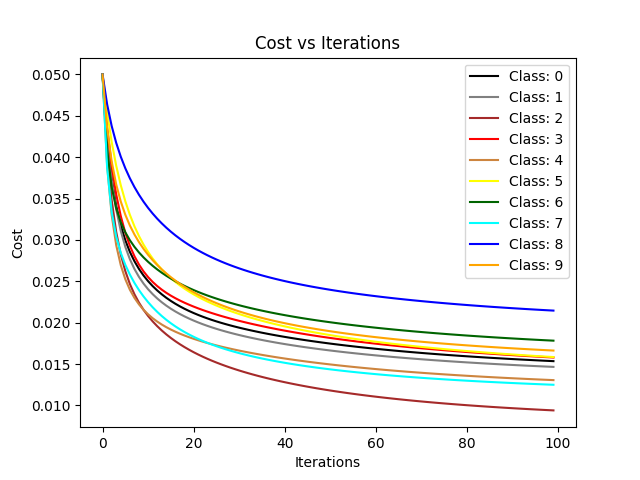
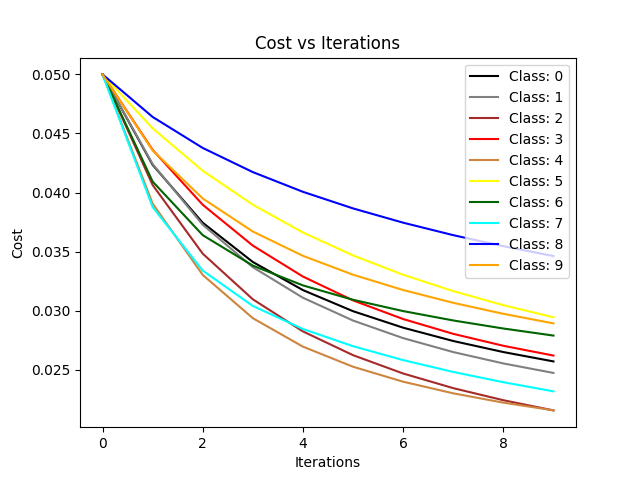
model parameters class and separate plotting module created

diff --git a/ml/linear_regression.py b/ml/linear_regression.py
@@ -1,54 +1,35 @@
-import pickle
-from abc import ABC
-
 import numpy as np
-import matplotlib.pyplot as plt
+from pathlib import Path
+
 from typing import Tuple
 
-from contants import colors
+from ml.models import ModelParameters
 
 
-class Regressor(ABC):
-    w_init = None
-    b_init = None
-    w_min = None
-    b_min = None
-
+class GradientDescent(object):
     def __init__(self):
         pass
 
-    def save_weights(self, weights: np.ndarray, bias: np.array, cost: np.ndarray):
+    def compute_cost(self):
         pass
 
-    def load_weights(self) -> Tuple[np.ndarray, np.array]:
+    def compute_gradient(self):
+        pass
+
+    def compute_gradient_descent(self):
         pass
 
 
 class LinearRegression(object):
     def __init__(self, nodes=1):
         self.nodes = nodes
-        self.cost_list = None
-        self.w_init = None
-        self.b_init = None
-        self.w_min = None
-        self.b_min = None
-
-    @staticmethod
-    def save_weights(weights: np.ndarray, bias: np.array, cost: np.ndarray) -> None:
-        with open('weights/lr_weights.pkl', 'wb') as f:
-            pickle.dump(weights, f)
-            pickle.dump(bias, f)
-            pickle.dump(cost, f)
-            print('Saved model weights')
-
-    @staticmethod
-    def load_weights() -> Tuple[np.ndarray, np.array, np.ndarray]:
-        with open('weights/lr_weights.pkl', 'rb') as f:
-            weights = pickle.load(f)
-            bias = pickle.load(f)
-            cost = pickle.load(f)
-            print('Loaded model weights')
-            return weights, bias, cost
+        self.parameters = None
+        self.weights_filepath = Path(__file__).parent / Path('weights/lr_weights.hp5')
+        # self.cost_list = None
+        # self.w_init = None
+        # self.b_init = None
+        # self.w_min = None
+        # self.b_min = None
 
     def compute_gradient(self, xTrain: np.array, yTrain: np.array, w: np.array,
                          b: np.array) -> Tuple[np.array, np.array]:
@@ -104,17 +85,20 @@ class LinearRegression(object):
 
         return w, b, self.cost_list
 
-    def train(self, xTrain: np.array, yTrain: np.array, w_init: np.array, b_init: np.array,
+    def train(self, xTrain: np.array, yTrain: np.array, parameters: ModelParameters,
               learning_rate: float, iterations: int) -> Tuple[np.array, np.array, np.array]:
-        self.w_init = w_init
-        self.b_init = b_init
+        # self.w_init = w_init
+        # self.b_init = b_init
+        self.parameters = parameters
+        w_init, b_init = self.parameters.load_initial_weights()
 
-        self.w_min, self.b_min, self.cost_list = self.gradient_descent(xTrain, yTrain, w_init,
-                                                                       b_init, learning_rate, iterations)
-        print('Optimum weights and bias are: {}, {}'.format(self.w_min, self.b_min))
+        w_min, b_min, cost_list = self.gradient_descent(xTrain, yTrain, w_init, b_init, learning_rate, iterations)
+        print('Optimum weights and bias are: {}, {}'.format(w_min, b_min))
 
-        return self.w_min, self.b_min, self.cost_list
+        self.parameters.save_weights(filepath=self.weights_filepath, weights=w_min, bias=b_min, cost_history=cost_list)
+        return w_min, b_min, cost_list
 
-    def predict(self, xTest: np.array, yTest: np.array, wMin: np.array, bMin: float) -> Tuple[np.array, np.array]:
+    def predict(self, xTest: np.ndarray, yTest: np.ndarray) -> Tuple[np.array, np.array]:
         print('Predicting...')
-        return self.compute_cost(data=xTest, target=yTest, w=wMin, b=bMin, get_y_pred=True)
+        w_min, b_min, cost_history = self.parameters.load_optimum_weights(self.weights_filepath)
+        return self.compute_cost(data=xTest, target=yTest, w=w_min, b=b_min, get_y_pred=True)

diff --git a/ml/models.py b/ml/models.py
@@ -1,17 +1,78 @@
-# from abc import ABC, abstractmethod
-#
-# import numpy as np
-# import pandas as pd
-#
-#
-# class Model(ABC):
-#     def __init__(self) -> None:
-#         pass
-#
-#     @abstractmethod
-#     def train(self):
-#         pass
-#
-#     @abstractmethod
-#     def predict(self) -> np.array:
-#         pass
+from pathlib import Path
+from typing import Tuple
+
+import h5py
+import numpy as np
+
+
+class RegressorModelParameters(object):
+    """
+    This class is responsible for defining parameters for a regressor models e.g. Linear Regression,
+    Logistic Regression, etc.
+
+    The class stores model weights and cost history associated with it as well to inspect calculated optimum weights and
+    how well algorithm learned over each iteration.
+    """
+    def __init__(self, w_init: np.ndarray = None, b_init: np.ndarray = None):
+        self.w_init = w_init
+        self.b_init = b_init
+        self.w_min = None
+        self.b_min = None
+        self.cost_history = None
+
+    def save_weights(self, filepath: Path, weights: np.ndarray, bias: np.ndarray, cost_history: np.ndarray) -> None:
+        """
+        Saves weights and cost history for model.
+
+        filepath: filepath to save weights and cost history into
+        weights: numpy array of trained weights
+        bias: numpy array of trained bias
+        cost_history: numpy array of cost history
+        """
+        self.w_min = weights
+        self.b_min = bias
+        self.cost_history = cost_history
+
+        with h5py.File(str(filepath), 'w') as file:
+            file.create_dataset('init_weights', data=self.w_init)
+            file.create_dataset('init_bias', data=self.b_init)
+            file.create_dataset('min_weights', data=weights)
+            file.create_dataset('min_bias', data=bias)
+            file.create_dataset('cost_history', data=cost_history)
+            file.close()
+
+    def load_initial_weights(self, filepath: Path = None) -> Tuple[np.ndarray, np.ndarray]:
+        """
+        Loads initial weights from file if filepath provided otherwise returns initial weights from the instance.
+
+        filepath: filepath to load initial weights from.
+        """
+        if filepath:
+            if filepath.exists():
+                with h5py.File(str(filepath), 'r') as model_file:
+                    weights = model_file['init_weights']
+                    bias = model_file['init_bias']
+                    return weights, bias
+            else:
+                raise FileNotFoundError
+        else:
+            return self.w_init, self.b_init
+
+    def load_optimum_weights(self, filepath: Path = None) -> Tuple[np.ndarray, np.ndarray, np.ndarray]:
+        """
+        Loads trained weights and cost history from file if filepath provided.
+
+        filepath: filepath to load weights and cost history from.
+        """
+        # TODO: Create separate function returning cost history
+        if filepath:
+            if filepath.exists():
+                with h5py.File(str(filepath), 'r') as model_file:
+                    weights = model_file['min_weights'][()]
+                    bias = model_file['min_bias'][()]
+                    cost_history = model_file['cost_history'][()]
+                    return weights, bias, cost_history
+            else:
+                raise FileNotFoundError
+        else:
+            return self.w_min, self.b_min, self.cost_history

diff --git a/main.py b/main.py
@@ -4,11 +4,14 @@ import numpy as np
 
 from contants import total_digits
 from ml.linear_regression import LinearRegression
+from ml.models import ModelParameters
 from ml.plots import plot_cost, plot_result
 from ml.statistics import Normalizer, OneHotEncoder
 from preprocessing import ImageDataSet
 
-img_data = ImageDataSet(Path('data/mfeat-pix.txt'))
+ROOT_DIR = Path(__file__).parent
+
+img_data = ImageDataSet(ROOT_DIR / Path('data/mfeat-pix.txt'))
 img_data.load()
 X_train, X_test, y_train, y_test = img_data.preprocess()
 
@@ -22,19 +25,21 @@ encoder = OneHotEncoder()
 y_train = encoder.encode(y_train)
 y_test = encoder.encode(y_test)
 
-# Performing Linear Regression
-linear_regressor = LinearRegression(total_digits)
 # Initial Weights and Bias
 W_init = np.zeros((X_train.shape[1], total_digits))
 b_init = np.zeros(total_digits)
-w_min, b_min, cost_data = linear_regressor.train(xTrain=X_train, yTrain=y_train,
-                                                 w_init=W_init, b_init=b_init, learning_rate=1e-2, iterations=100)
-# linear_regressor.save_weights(weights=w_min, bias=b_min, cost=cost_data)
+model_paras = ModelParameters(w_init=W_init, b_init=b_init)
 
-# w_min, b_min, cost_data = linear_regressor.load_weights()
-plot_cost(cost=cost_data)
-y_pred = linear_regressor.predict(xTest=X_test, yTest=y_test, wMin=w_min, bMin=b_min)
-plot_result(pred=y_pred, target=y_test)
+# Performing Linear Regression
+linear_regressor = LinearRegression(total_digits)
+w_min, b_min, cost_data = linear_regressor.train(xTrain=X_train, yTrain=y_train,
+                                                 parameters=model_paras, learning_rate=1e-2, iterations=10)
+
+# w_min, b_min, cost_data = model_paras.load_optimum_weights(filepath=ROOT_DIR / Path('ml/weights/lr_weights.hp5'))
+
+plot_cost(filepath=ROOT_DIR / Path('results/lr_cost.png'), cost=cost_data)
+y_pred = linear_regressor.predict(xTest=X_test, yTest=y_test)
+plot_result(filepath=ROOT_DIR / Path('results/lr_result.png'), pred=y_pred, target=y_test)
 
 # Prediction of random sample
 # random_digit = np.random.randint(0, 10, size=1)

diff --git a/ml/plots.py b/ml/plots.py
@@ -12,7 +12,7 @@ def plot_digit(img_data: np.array) -> None:
     plt.show()
 
 
-def plot_cost(cost: np.array):
+def plot_cost(filepath: Path, cost: np.array):
     classes = cost.shape[1]
     for node in range(classes):
         plt.plot(cost[:, node], "{}".format(colors[node]), label="Class: {}".format(node))
@@ -20,11 +20,11 @@ def plot_cost(cost: np.array):
     plt.xlabel("Iterations")
     plt.ylabel("Cost")
     plt.title("Cost vs Iterations")
-    plt.savefig(Path(__file__).parents[1] / "results/lr_cost.png")
+    plt.savefig(filepath)
     plt.close()
 
 
-def plot_result(pred: np.array, target: np.array):
+def plot_result(filepath: Path, pred: np.array, target: np.array):
     samples = len(target)
     pred = np.round(pred).astype(int)
     table_data = np.zeros((10, 3))
@@ -44,5 +44,5 @@ def plot_result(pred: np.array, target: np.array):
     plt.axis('off')
 
     plt.table(cellText=table_data, rowLabels=rows, colLabels=cols, loc='center')
-    plt.savefig(Path(__file__).parents[1] / "results/lr_result.png")
+    plt.savefig(filepath)
     plt.close()

diff --git a/README.md b/README.md
@@ -7,7 +7,7 @@ algorithms. The implementation intentionally does not include sophisticated ML l
 ## Project Scope
 
 The digit picture dataset contains data of 2000 grey scale pictures with 200 images of each 10 digits (0-9). The size of
-each picture is 16X15 and stored as a string of 240 decimal digits (ranging 0-6).
+each picture is 16X15 and stored as a array of 240 integers (ranging 0-6).
 
 The following figure shows 10 pictures of each digit (0-9) using data from digit picture dataset file (mfeat-pix.txt):
 <br/><br/>
